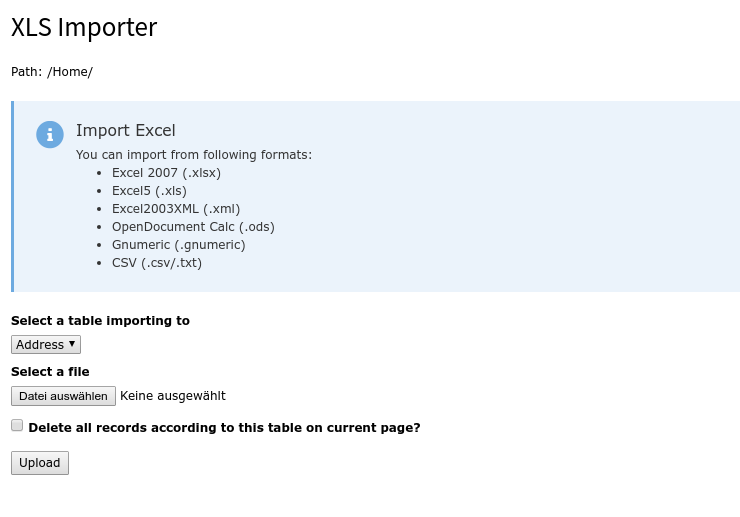
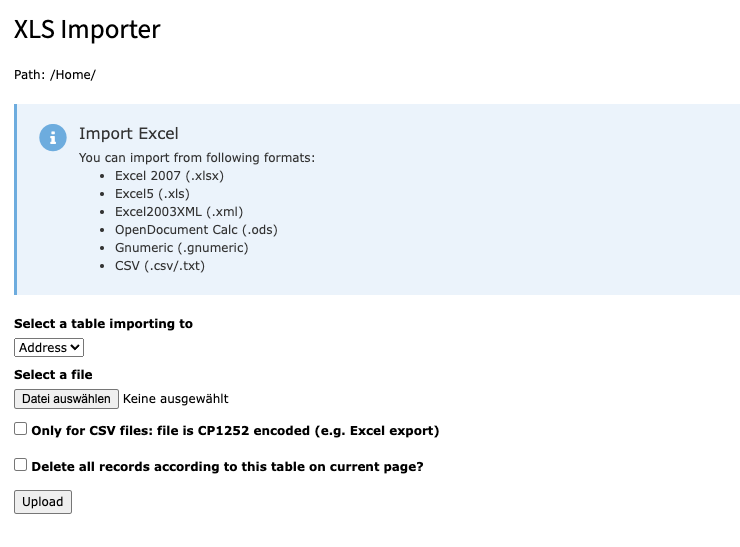
[DOCS] Add documentation for new encoding feature

diff --git a/Documentation/Usage/Index.rst b/Documentation/Usage/Index.rst
@@ -25,7 +25,12 @@ Beginning from here you have to select a page inside the pagetree you want to im
    The view for selecting table and file for importing data.
 
 Inside this view you can select your table you want to import to. As actual supported files you can use all listed
-above file types. The checkbox allows you to delete all records in the selected table on the selected page.
+above file types.
+
+The first checkbox allows you to select if the uploaded file is CP1252 encoded. This is especially useful if you encounter problems
+with empty fields after the import due to UTF-8 problems.
+
+The second checkbox allows you to delete all records in the selected table on the selected page.
 
 For getting data updated instead of added, you have to define a row with the uid of the corresponding TYPO3 record inside
 your Excel sheet. If you set one column to uid, the system tries to update the existing dataset.
